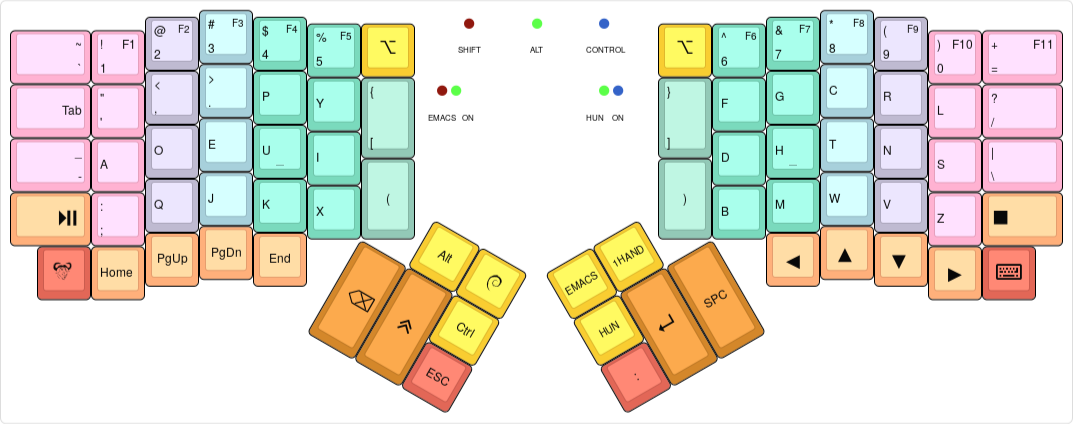
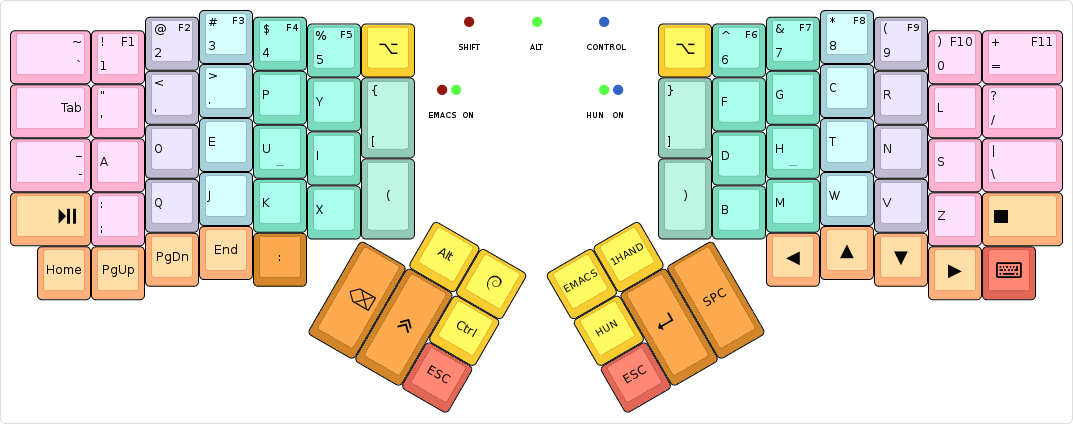
BASE: Move the : key to the left bottom row.
Fixes #17.

diff --git a/keymap.c b/keymap.c
@@ -135,14 +135,14 @@ const uint16_t PROGMEM keymaps[][MATRIX_ROWS][MATRIX_COLS] = {
  * |-----------+------+------+------+------+------|   (  |           |  )   |------+------+------+------+------+-----------|
  * | Play/Pause|   ;  |   Q  |   J  |   K  |   X  |      |           |      |   B  |   M  |   W  |   V  |  Z   |      Stop |
  * `-----------+------+------+------+------+-------------'           `-------------+------+------+------+------+-----------'
- *     |  M-m  | Home | PgUp | PgDn | End  |                                       | Left |  Up  | Down | Right|Unicode|
+ *     |  Home | PgUp | PgDn | End  |   :  |                                       | Left |  Up  | Down | Right|Unicode|
  *     `-----------------------------------'                                       `-----------------------------------'
  *                                         ,-------------.           ,-------------.
  *                                         | LAlt | GUI  |           |EMACS | 1HND |
  *                                  ,------|------|------|           |------+------+------.
  *                                  |      |      | Ctrl |           | HUN  |      |      |
  *                                  |Backsp|LShift|------|           |------| Enter| Space|
- *                                  |      |      | ESC  |           |  :   |      |      |
+ *                                  |      |      | ESC  |           | ESC  |      |      |
  *                                  `--------------------'           `--------------------'
  */
 [BASE] = KEYMAP(
@@ -151,7 +151,7 @@ const uint16_t PROGMEM keymaps[][MATRIX_ROWS][MATRIX_COLS] = {
 ,KC_TAB             ,KC_QUOT     ,KC_COMM     ,KC_DOT ,KC_P   ,KC_Y   ,KC_LBRC
 ,KC_MINS            ,KC_A        ,KC_O        ,KC_E   ,KC_U   ,KC_I
 ,KC_MPLY            ,KC_SCLN     ,KC_Q        ,KC_J   ,KC_K   ,KC_X   ,KC_LPRN
-,M(ASE_META)        ,KC_HOME     ,KC_PGUP     ,KC_PGDN,KC_END
+,KC_HOME            ,KC_PGUP     ,KC_PGDN     ,KC_END ,KC_COLN
 
                                                             ,M(A_ALT),F(F_GUI)
                                                                      ,M(A_CTRL)
@@ -166,7 +166,7 @@ const uint16_t PROGMEM keymaps[][MATRIX_ROWS][MATRIX_COLS] = {
 
                                                                ,F(F_ECS),M(OH_LEFT)
                                                                ,F(F_HUN)
-                                                               ,KC_COLN ,KC_ENT ,KC_SPC
+                                                               ,KC_ESC  ,KC_ENT ,KC_SPC
     ),
 
 /* Keymap 1: Application select layer
